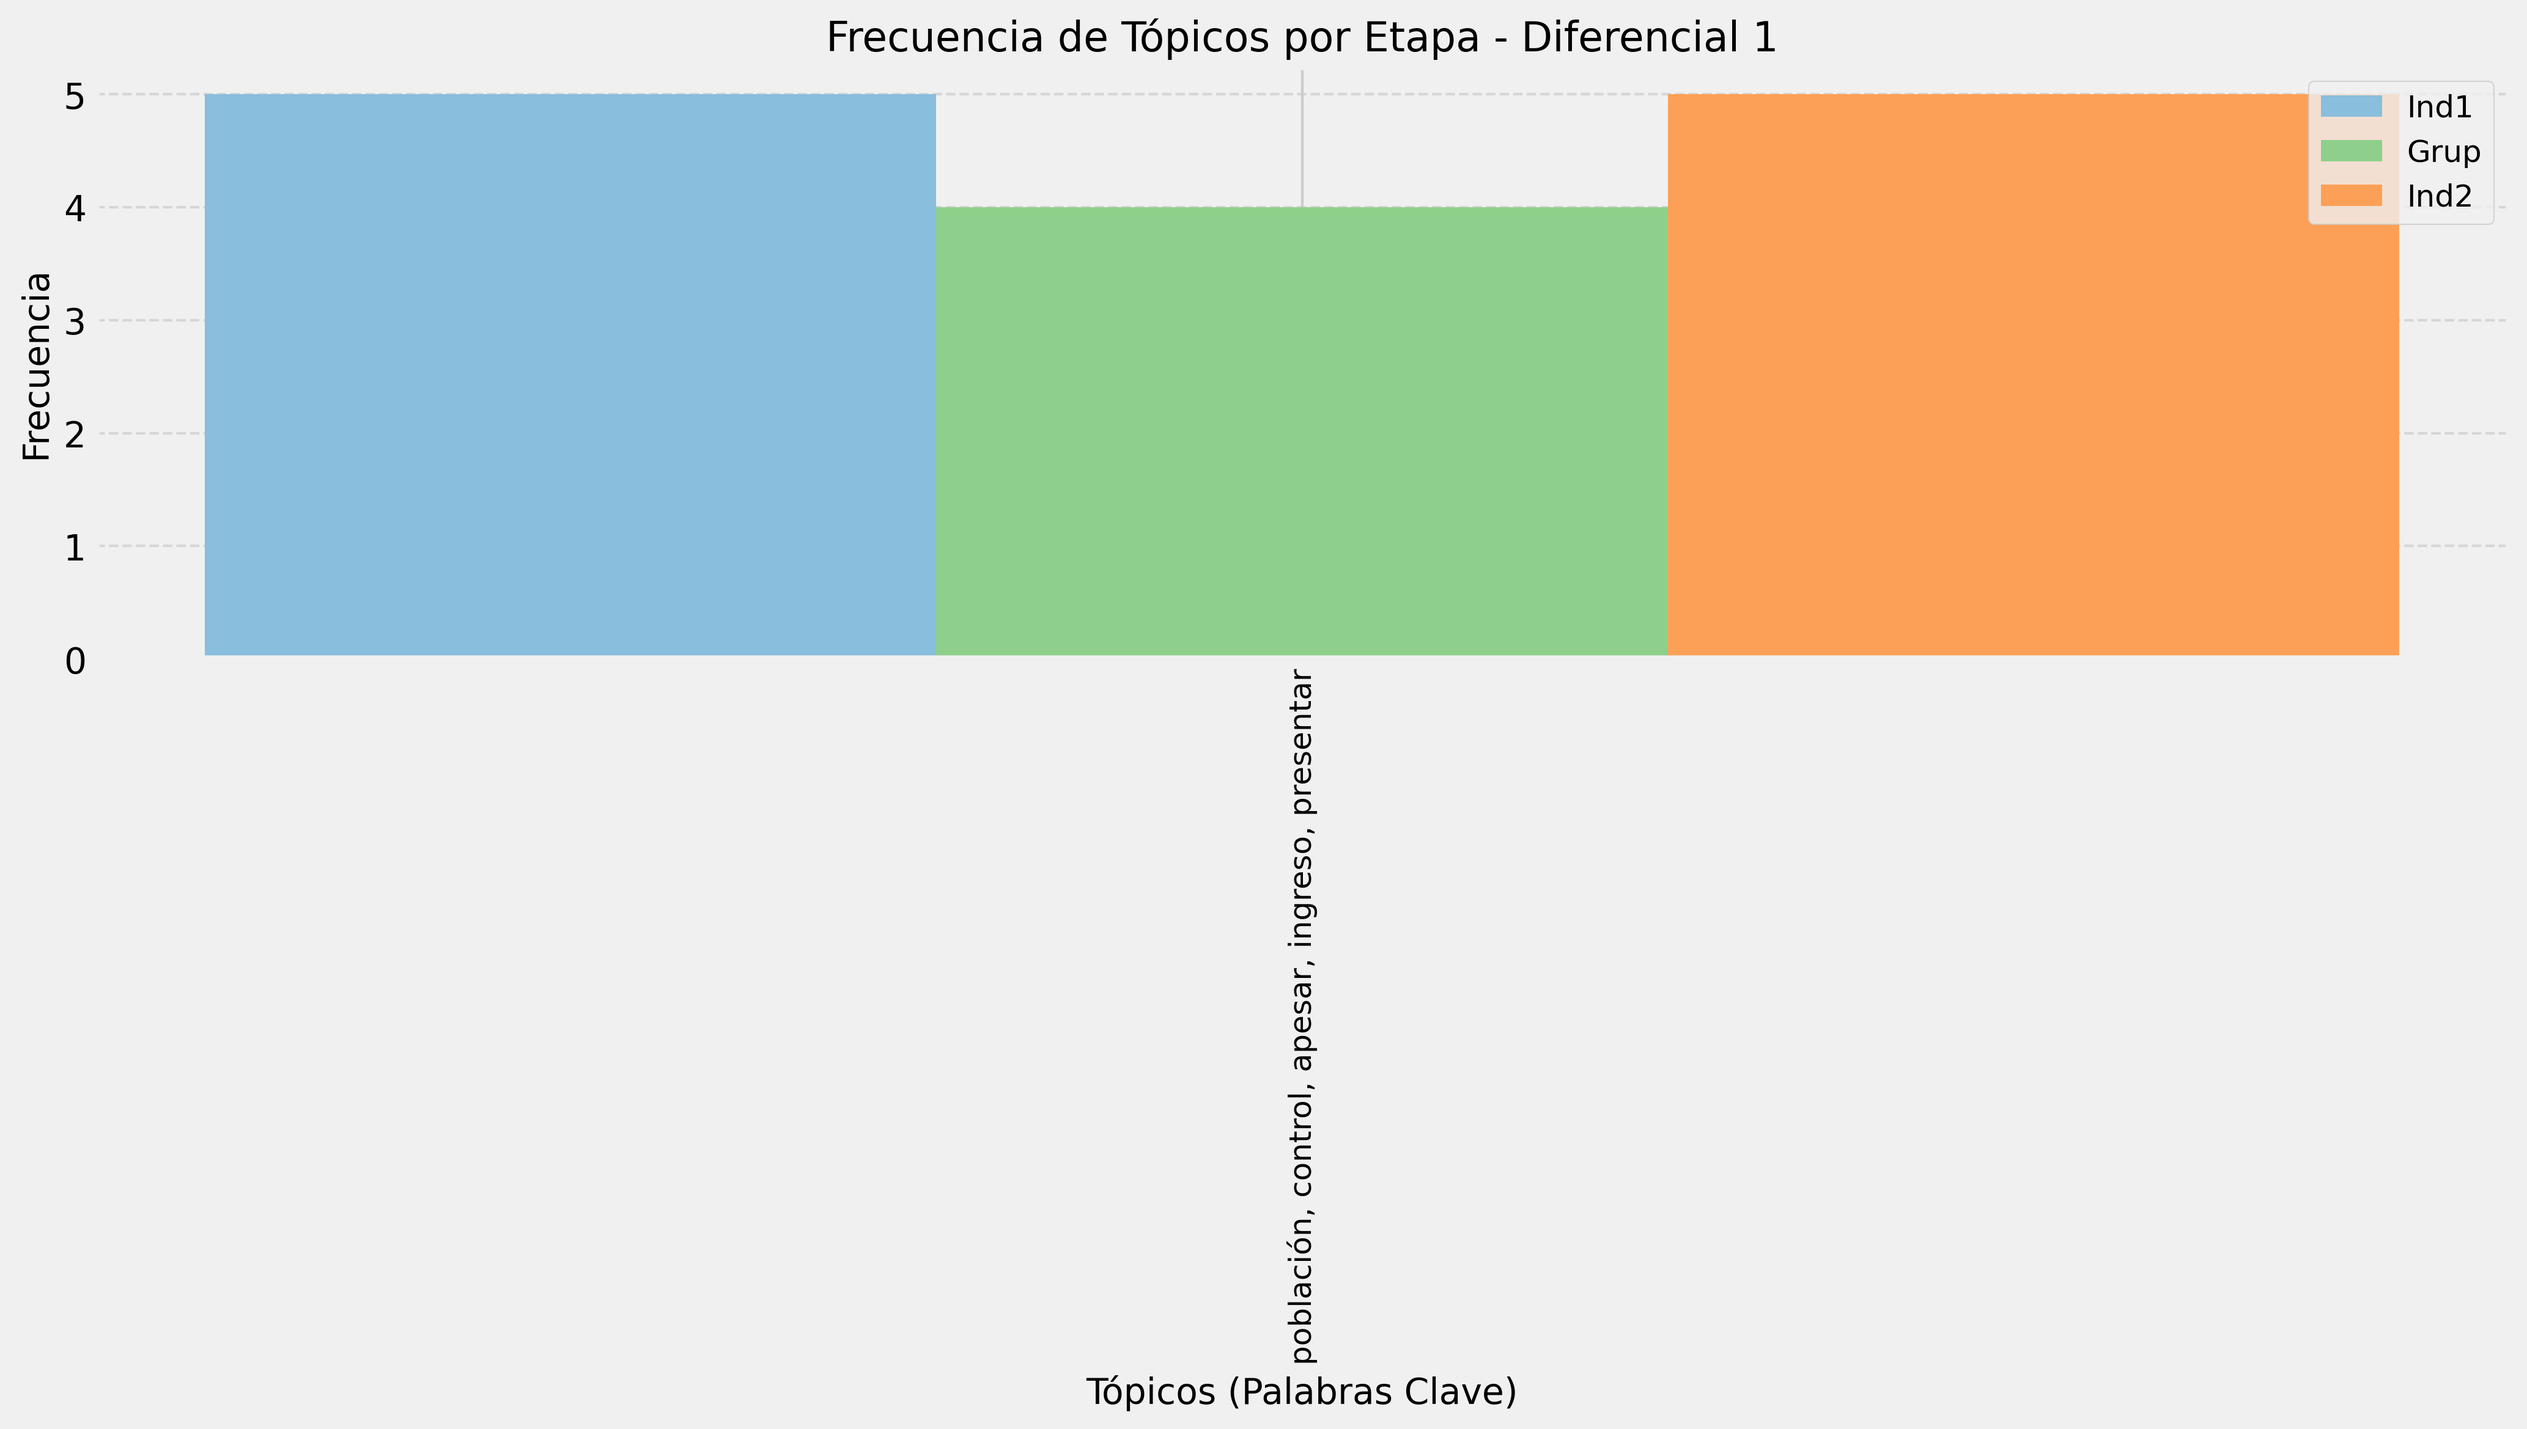
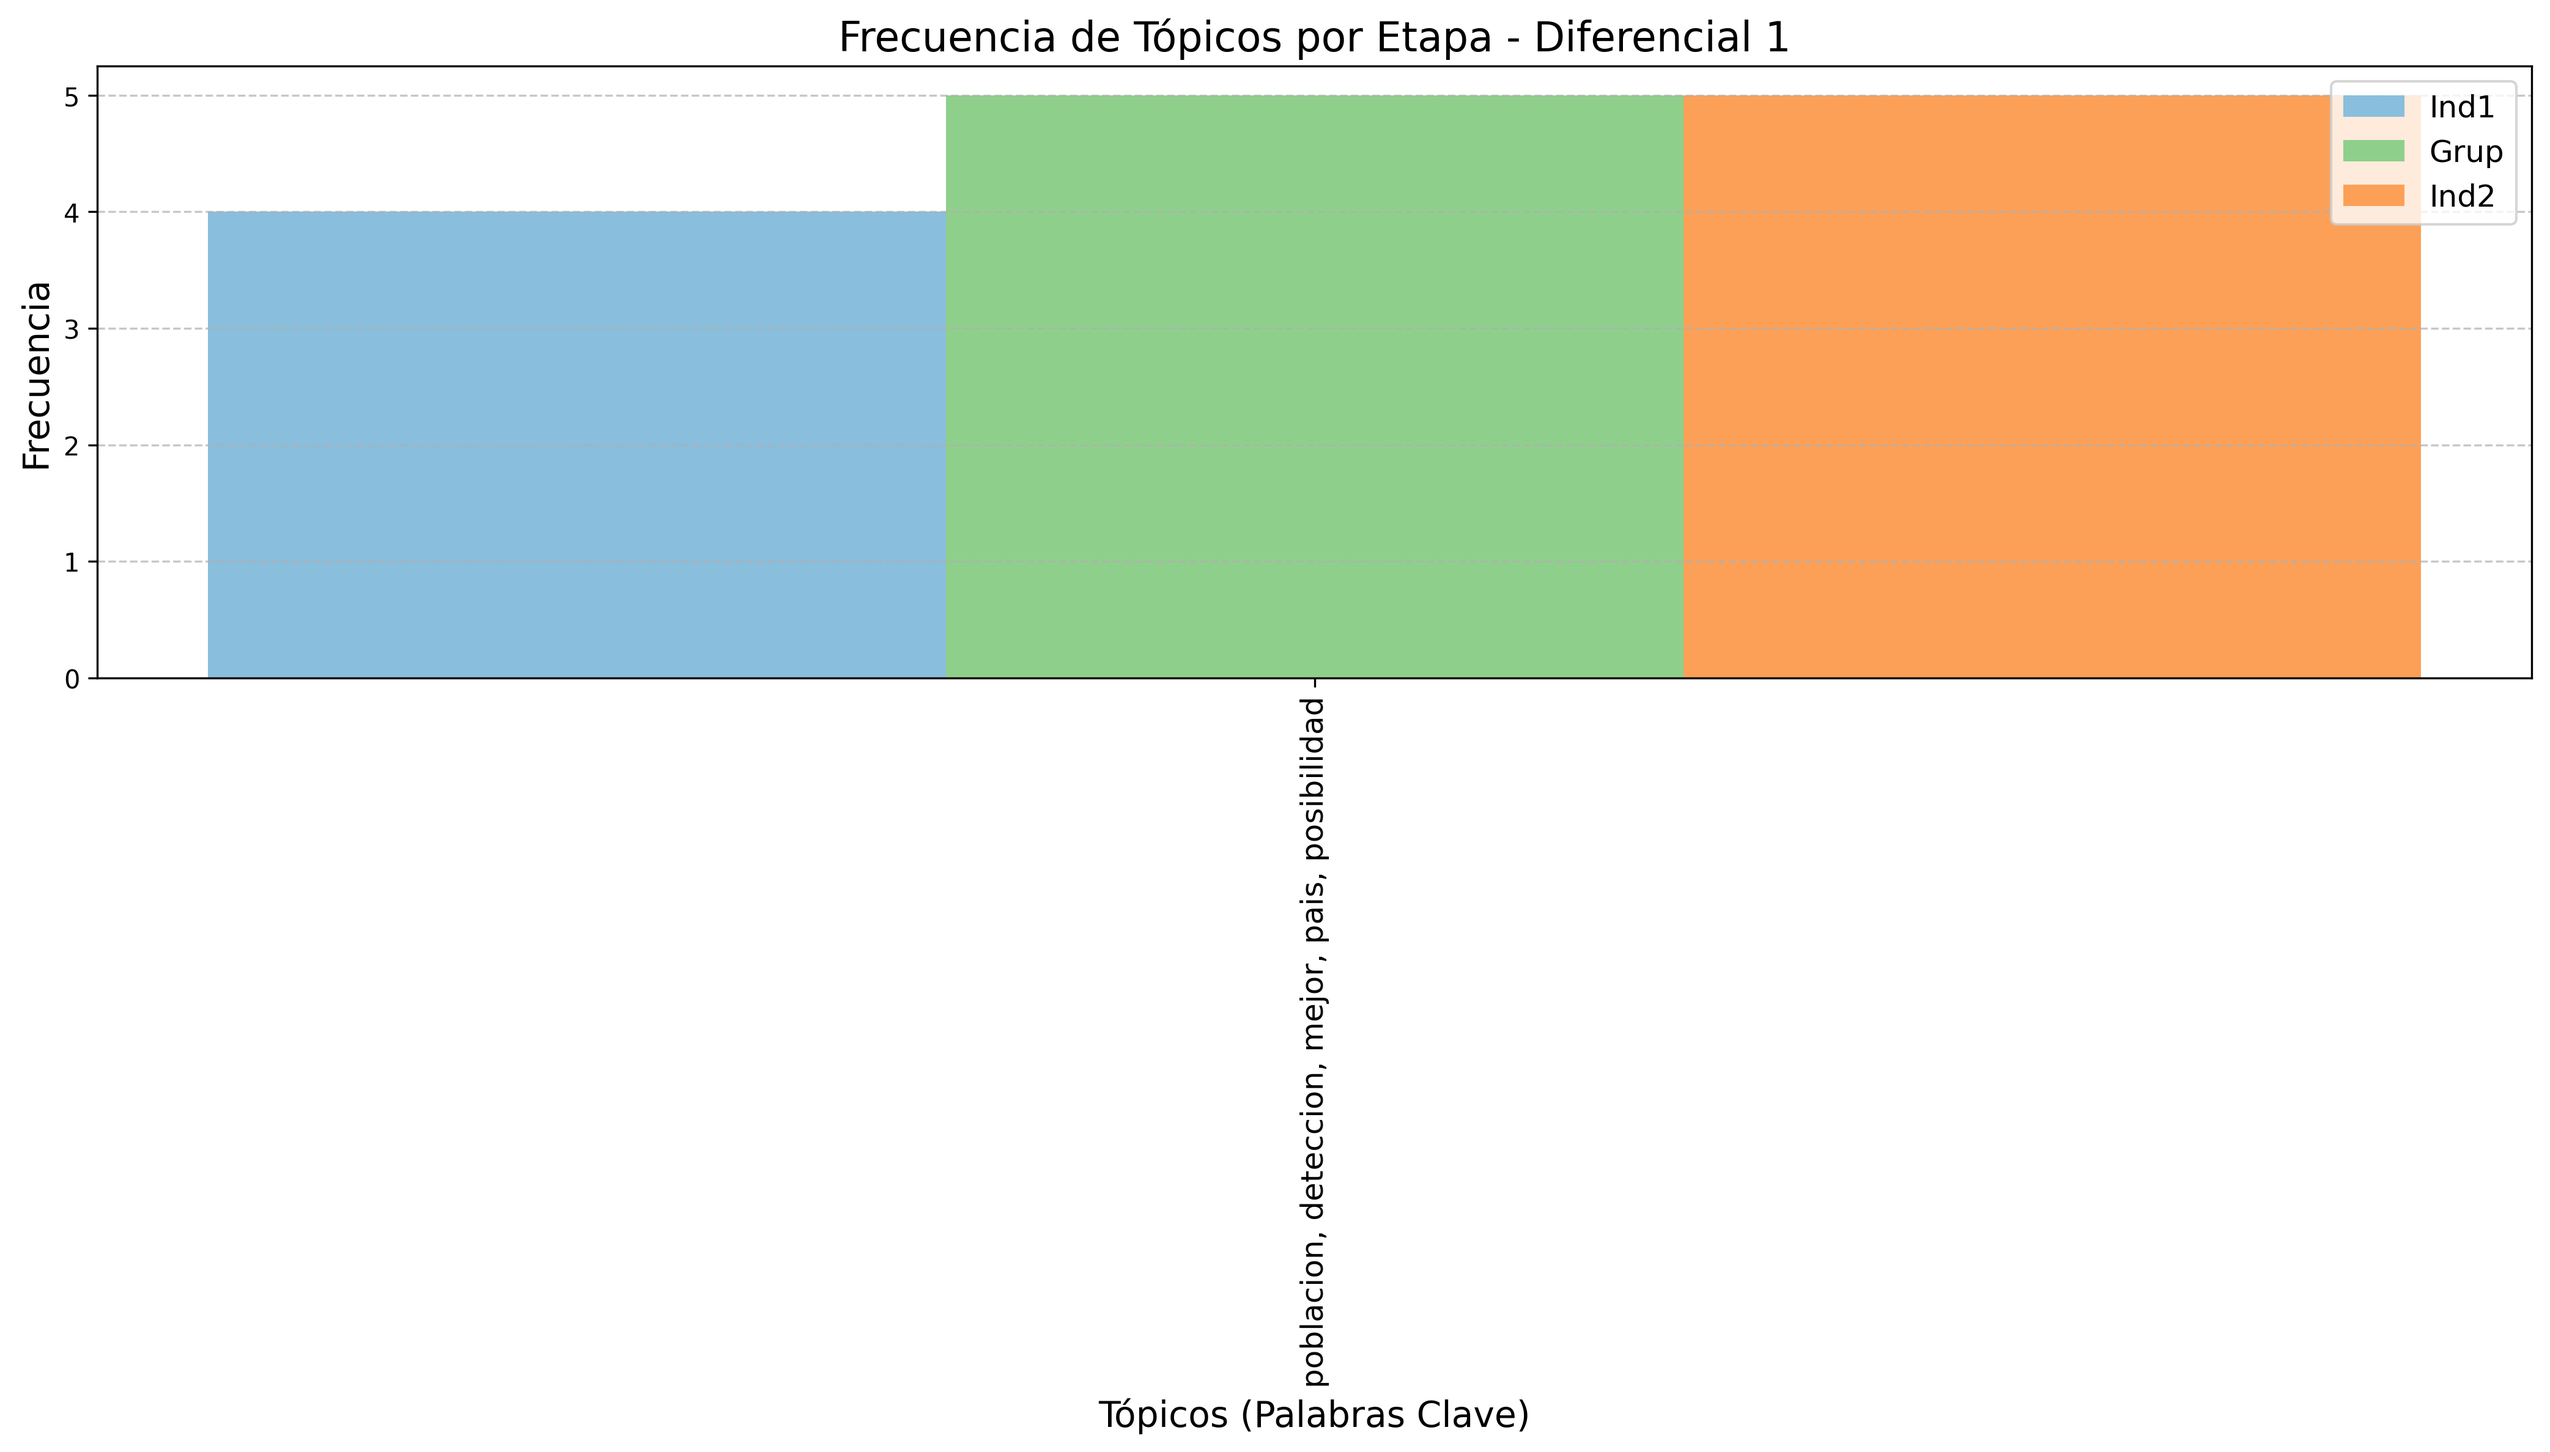
Graphs for most and less releveant topics

diff --git a/utils/bertopic_model.py b/utils/bertopic_model.py
@@ -118,6 +118,8 @@ def contar_topicos(caso):
 
 # Función para generar un gráfico de barras agrupadas con Ind1, Grup, e Ind2
 def graficar_topicos_agrupados(topic_counts, differential, model, caso):
+    print(f"Iniciando proceso para el diferencial {differential}...")
+    print("Realizando conteo de tópicos...")
     path = f"resultados/{caso}"
     
     # Construir las claves de conteo de tópicos basadas en el diferencial
@@ -155,6 +157,7 @@ def graficar_topicos_agrupados(topic_counts, differential, model, caso):
     # Posiciones en el eje X
     x = range(len(filtered_topics))
 
+    print("Generando gráfico de Frencuencia de Tópicos por Etapa...")
     # Crear el gráfico de barras agrupadas
     plt.figure(figsize=(14, 8))
     
@@ -177,6 +180,62 @@ def graficar_topicos_agrupados(topic_counts, differential, model, caso):
 
     # Guardar el gráfico
     plt.savefig(f"{path}/BERT_frec_topicos_d{differential}.png", dpi=300, bbox_inches='tight')
+    plt.clf()
+    plt.close()
+    print("Gráfico generado exitosamente.")
+    # Graficar
+    print("Generando gráficos de tópicos más y menos comunes...")
+    # Top 10 topicos mas frecuentes (considerando todas las etapas y distinguiendo por diferencial)
+    total_counts = {topic: (topic_counts_ind1.get(topic, 0) + 
+                        topic_counts_grup.get(topic, 0) + 
+                        topic_counts_ind2.get(topic, 0)) 
+                for topic in filtered_topics}
+    # Encontrar los 10 tópicos más comunes
+    top_10_topics = sorted(total_counts.items(), key=lambda x: x[1], reverse=True)[:10]
+    top_10_topics, top_10_freqs = zip(*top_10_topics)
+
+    # Encontrar los 20 tópicos menos comunes
+    bottom_20_topics = sorted(total_counts.items(), key=lambda x: x[1])[:20]
+    bottom_20_topics, bottom_20_freqs = zip(*bottom_20_topics)
+
+    # Obtener palabras clave de los tópicos
+    top_words = []
+    for topic in filtered_topics:
+        try:
+            top_words.append(", ".join([w[0] for w in model.get_topic(topic)[:5]]))
+        except:
+            top_words.append(f"Tópico {topic} no encontrado")
+    
+    # Encontrar las palabras clave de los 10 tópicos más comunes
+    top_10_words = [", ".join([w[0] for w in model.get_topic(topic)[0:5]]) for topic in top_10_topics]
+    
+    # Encontrar las palabras clave de los 20 tópicos menos comunes
+    bottom_20_words = [", ".join([w[0] for w in model.get_topic(topic)[0:5]]) for topic in bottom_20_topics]
+
+    # Graficar los 10 tópicos más comunes
+    plt.figure(figsize=(14, 8))
+    sns.barplot(x=list(top_10_freqs), y=list(top_10_words), palette="Blues")
+    plt.ylabel('Tópicos (Palabras Clave)', fontsize=14)
+    plt.xlabel('Frecuencia', fontsize=14)
+    plt.title(f"Top 10 Tópicos Más Comunes - Diferencial {differential}", fontsize=16)
+    plt.grid(axis='x', linestyle='--', alpha=0.7)
+    plt.tight_layout()
+    plt.savefig(f"{path}/BERT_Top10_Topicos_Mas_Comunes_d{differential}.png", dpi=300, bbox_inches='tight')
+    plt.clf()  
+    plt.close()
+
+    # Graficar los 20 tópicos menos comunes
+    plt.figure(figsize=(14, 8))
+    sns.barplot(x=list(bottom_20_freqs), y=list(bottom_20_words), palette="Reds")
+    plt.ylabel('Tópicos (Palabras Clave)', fontsize=14)
+    plt.xlabel('Frecuencia', fontsize=14)
+    plt.title(f"Bottom 20 Tópicos Menos Comunes - Diferencial {differential}", fontsize=16)
+    plt.grid(axis='x', linestyle='--', alpha=0.7)
+    plt.tight_layout()
+    plt.savefig(f"{path}/BERT_Top20_Topicos_Menos_Comunes_d{differential}.png", dpi=300, bbox_inches='tight')
+    plt.clf()
+    plt.close()
+    print("Gráficos generados exitosamente.")
 
 def BERT_contar_topicos_distintos(df, columna):
     # Crear un diccionario para almacenar los resultados
